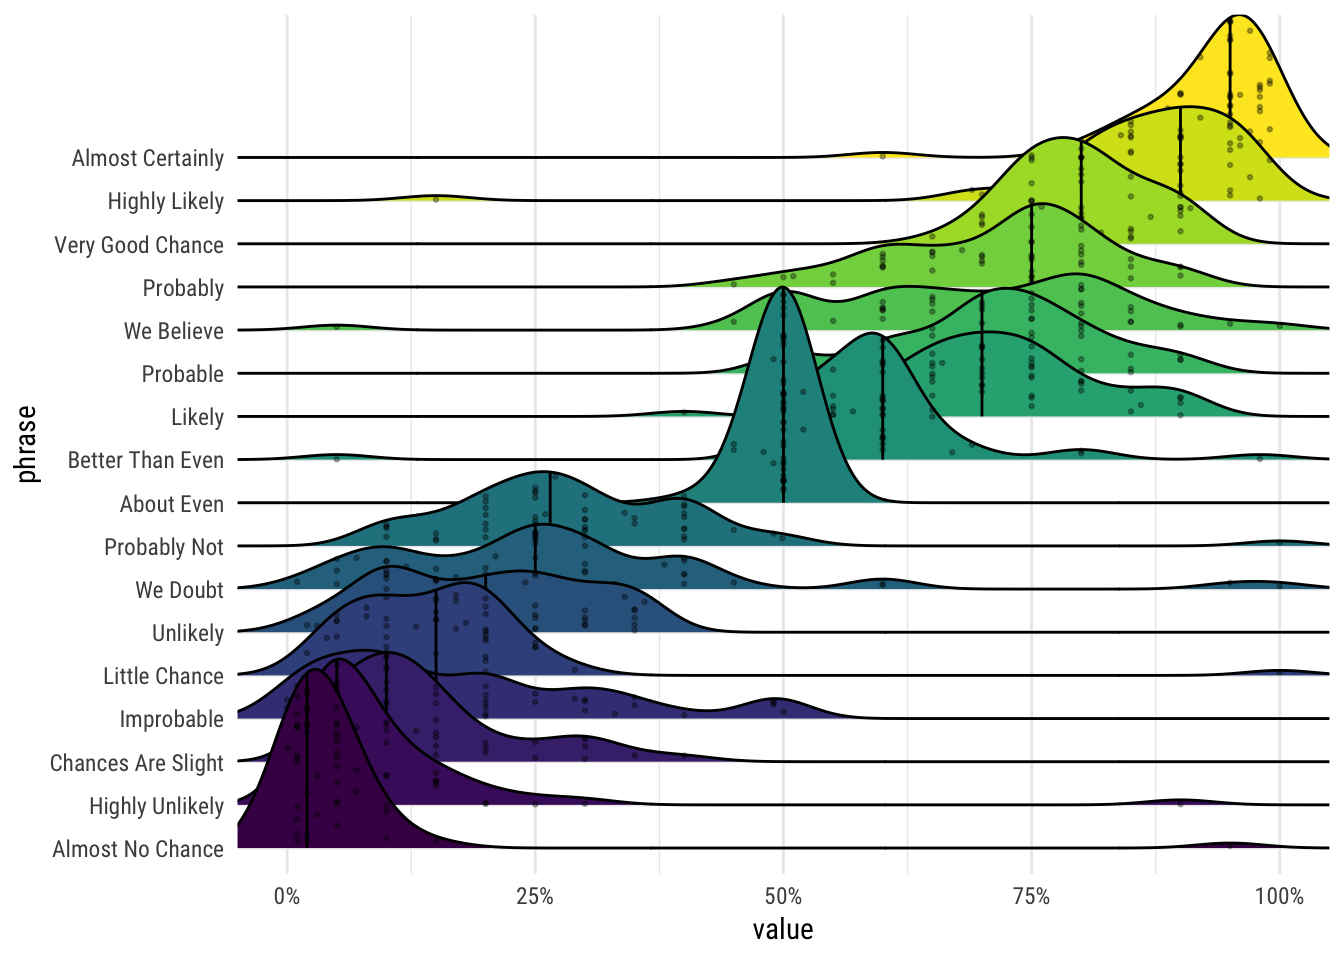
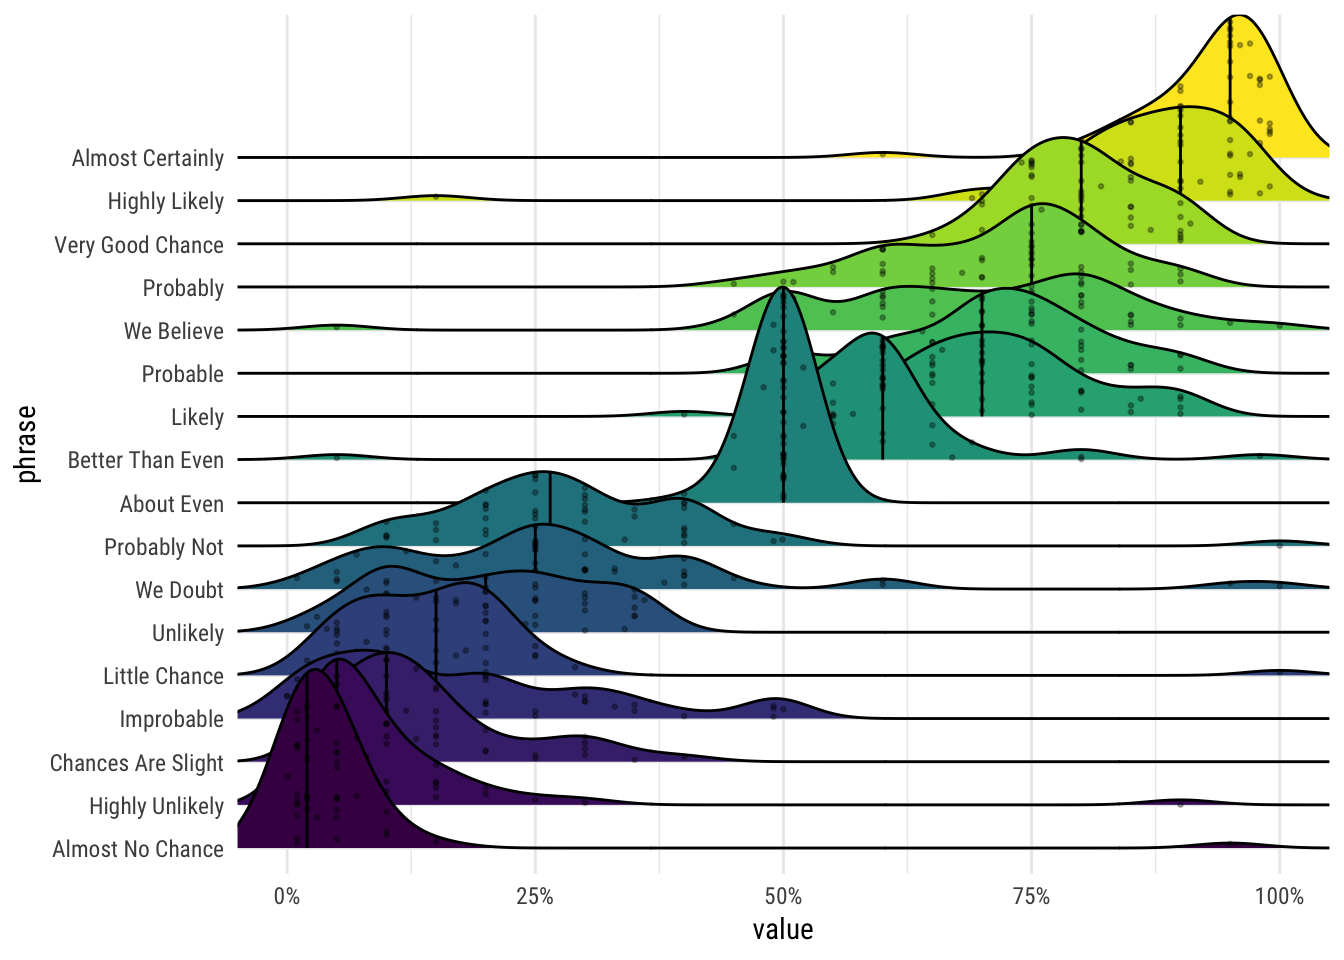
Add a seed so these pictures stay the same!

diff --git a/content/class/06-class.html b/content/class/06-class.html
@@ -118,7 +118,10 @@ code span.wa { color: #bf0303; } /* Warning */
 <div class="sourceCode" id="cb1"><pre class="sourceCode r"><code class="sourceCode r"><a class="sourceLine" id="cb1-1" data-line-number="1"><span class="kw">library</span>(tidyverse)</a>
 <a class="sourceLine" id="cb1-2" data-line-number="2"><span class="kw">library</span>(lubridate)</a>
 <a class="sourceLine" id="cb1-3" data-line-number="3"><span class="kw">library</span>(ggridges)</a>
-<a class="sourceLine" id="cb1-4" data-line-number="4"><span class="kw">library</span>(scales)</a></code></pre></div>
+<a class="sourceLine" id="cb1-4" data-line-number="4"><span class="kw">library</span>(scales)</a>
+<a class="sourceLine" id="cb1-5" data-line-number="5"></a>
+<a class="sourceLine" id="cb1-6" data-line-number="6"><span class="co"># Make the randomness reproducible</span></a>
+<a class="sourceLine" id="cb1-7" data-line-number="7"><span class="kw">set.seed</span>(<span class="dv">1234</span>)</a></code></pre></div>
 <p>Then we load the data. I used the <a href="https://github.com/hrbrmstr/darksky"><code>darksky</code> R package</a> to download this historical data from <a href="https://darksky.net">Dark Sky</a>, and then I <a href="https://gist.githubusercontent.com/andrewheiss/3eb9ef6186915711b44789767a1e434e/raw/be36336130546dd674332208eef5bac345bbf225/weather_provo_2017.csv">saved the CSV file online</a>.</p>
 <div class="sourceCode" id="cb2"><pre class="sourceCode r"><code class="sourceCode r"><a class="sourceLine" id="cb2-1" data-line-number="1">weather_provo_raw &lt;-<span class="st"> </span><span class="kw">read_csv</span>(<span class="st">&quot;https://andhs.co/provoweather&quot;</span>)</a></code></pre></div>
 <p>Then we wrangle the data, or make adjustments to it so that it’s easier to use and plot. Here we extract the month and weekday of each row as new columns:</p>
